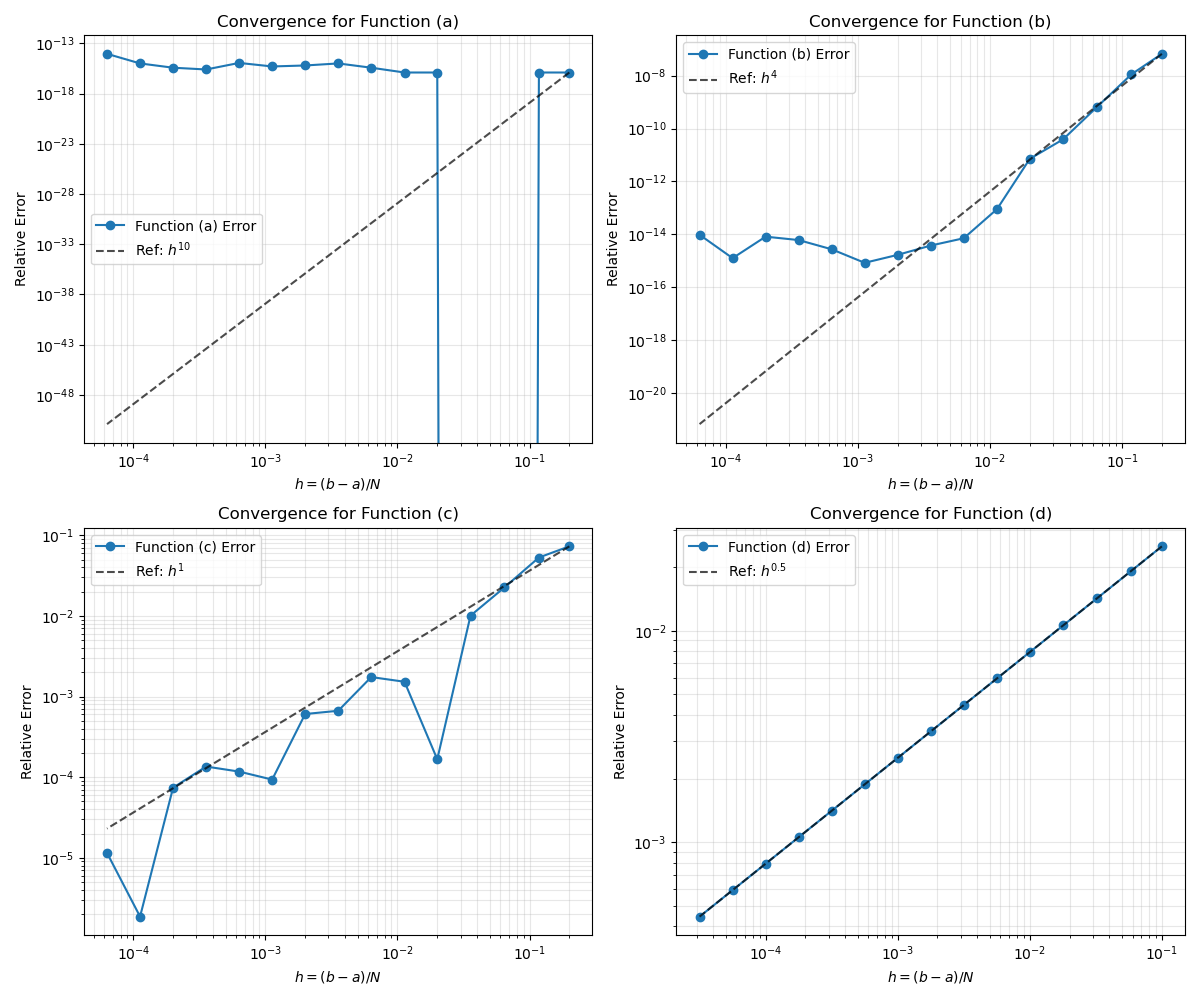
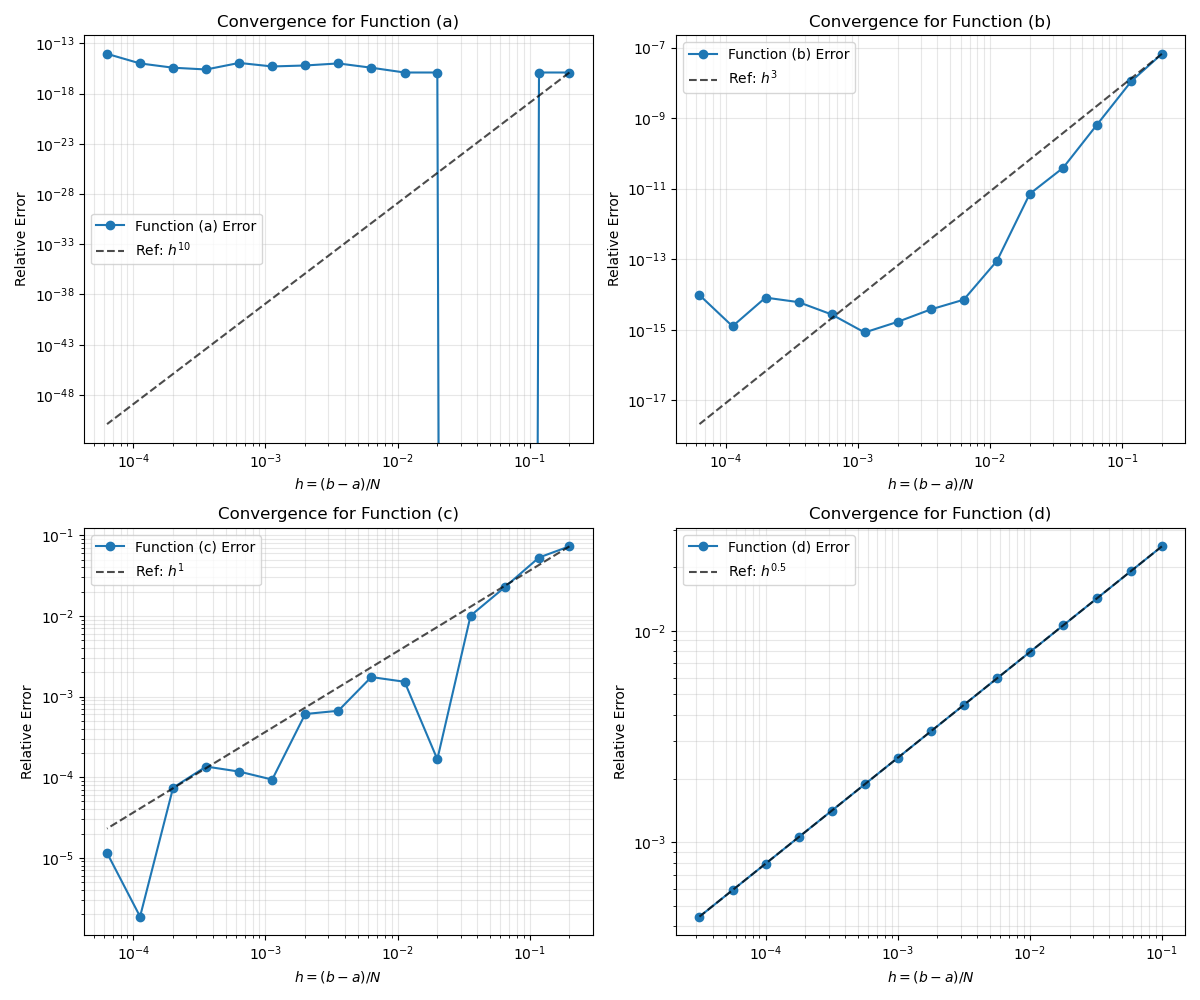
integration error changes

diff --git a/p2/p2.py b/p2/p2.py
@@ -30,7 +30,7 @@ c = 1 / np.sqrt(2)
 
 configs = {
     "a": (lambda x: x**8, 2/9, -1, 1, 10, "h^{10}"),
-    "b": (lambda x: np.abs(x - c)**3, ((1+c)**4 + (1-c)**4)/4, -1, 1, 4, "h^4"),
+    "b": (lambda x: np.abs(x - c)**3, ((1+c)**4 + (1-c)**4)/4, -1, 1, 3, "h^3"),
     "c": (lambda x: np.where(x > c, 1, 0), 1 - c, -1, 1, 1, "h^1"),
     "d": (lambda x: 1/np.sqrt(np.where(x == 0, 1e-15, x)), 2.0, 0, 1, 0.5, "h^{0.5}")
 }
